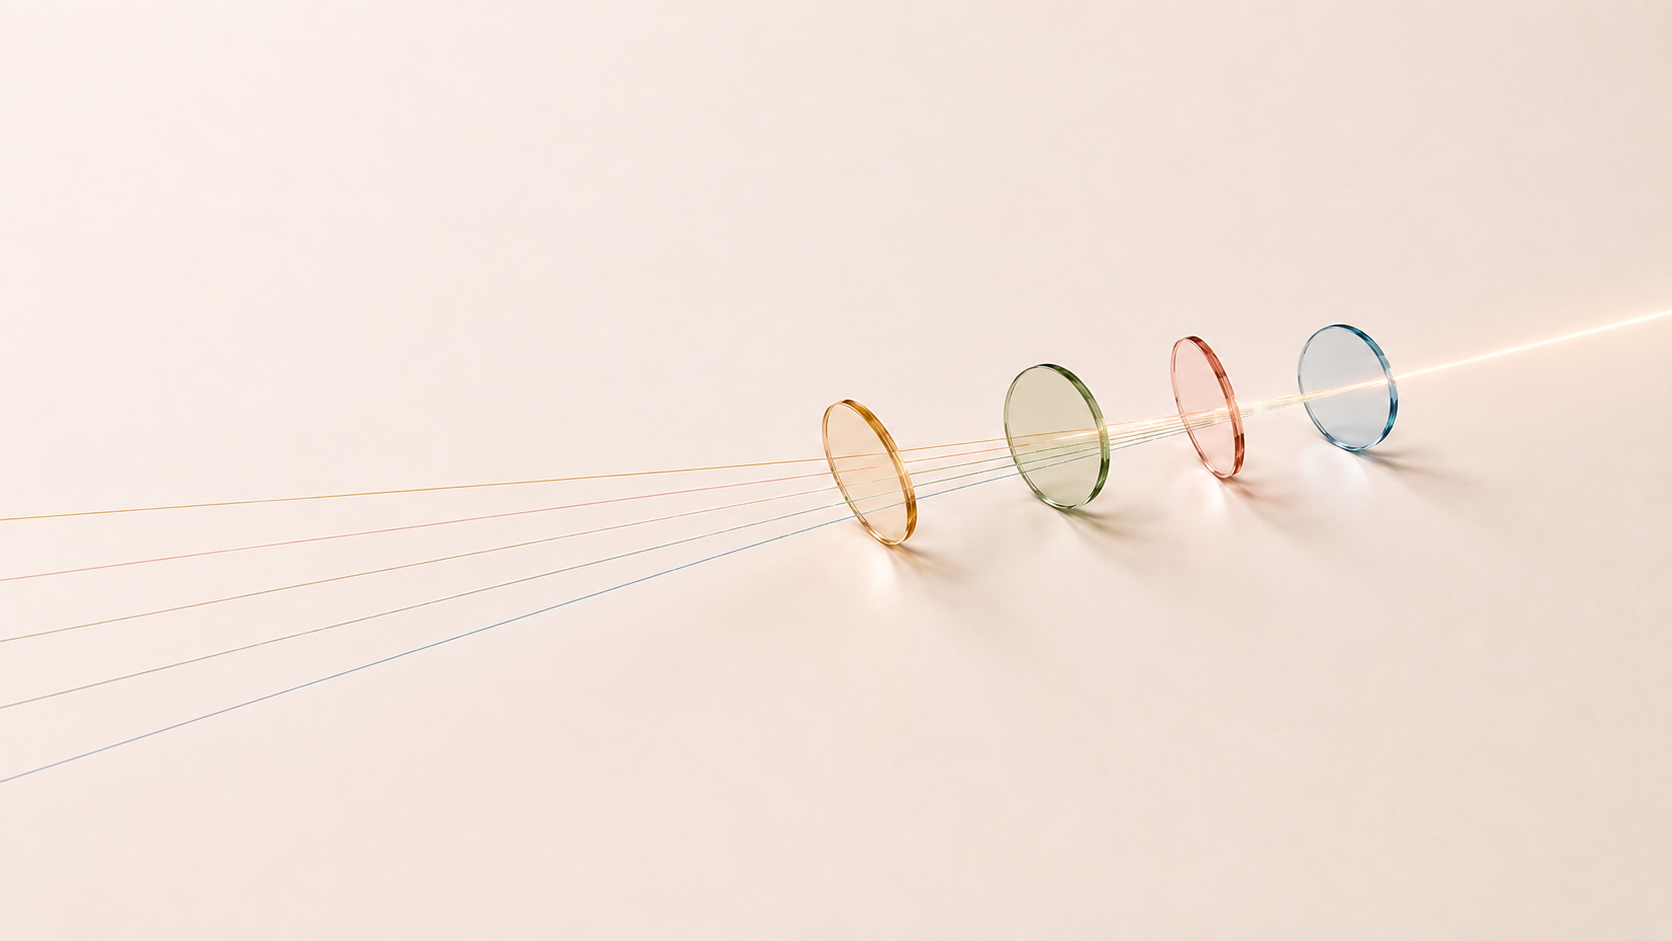
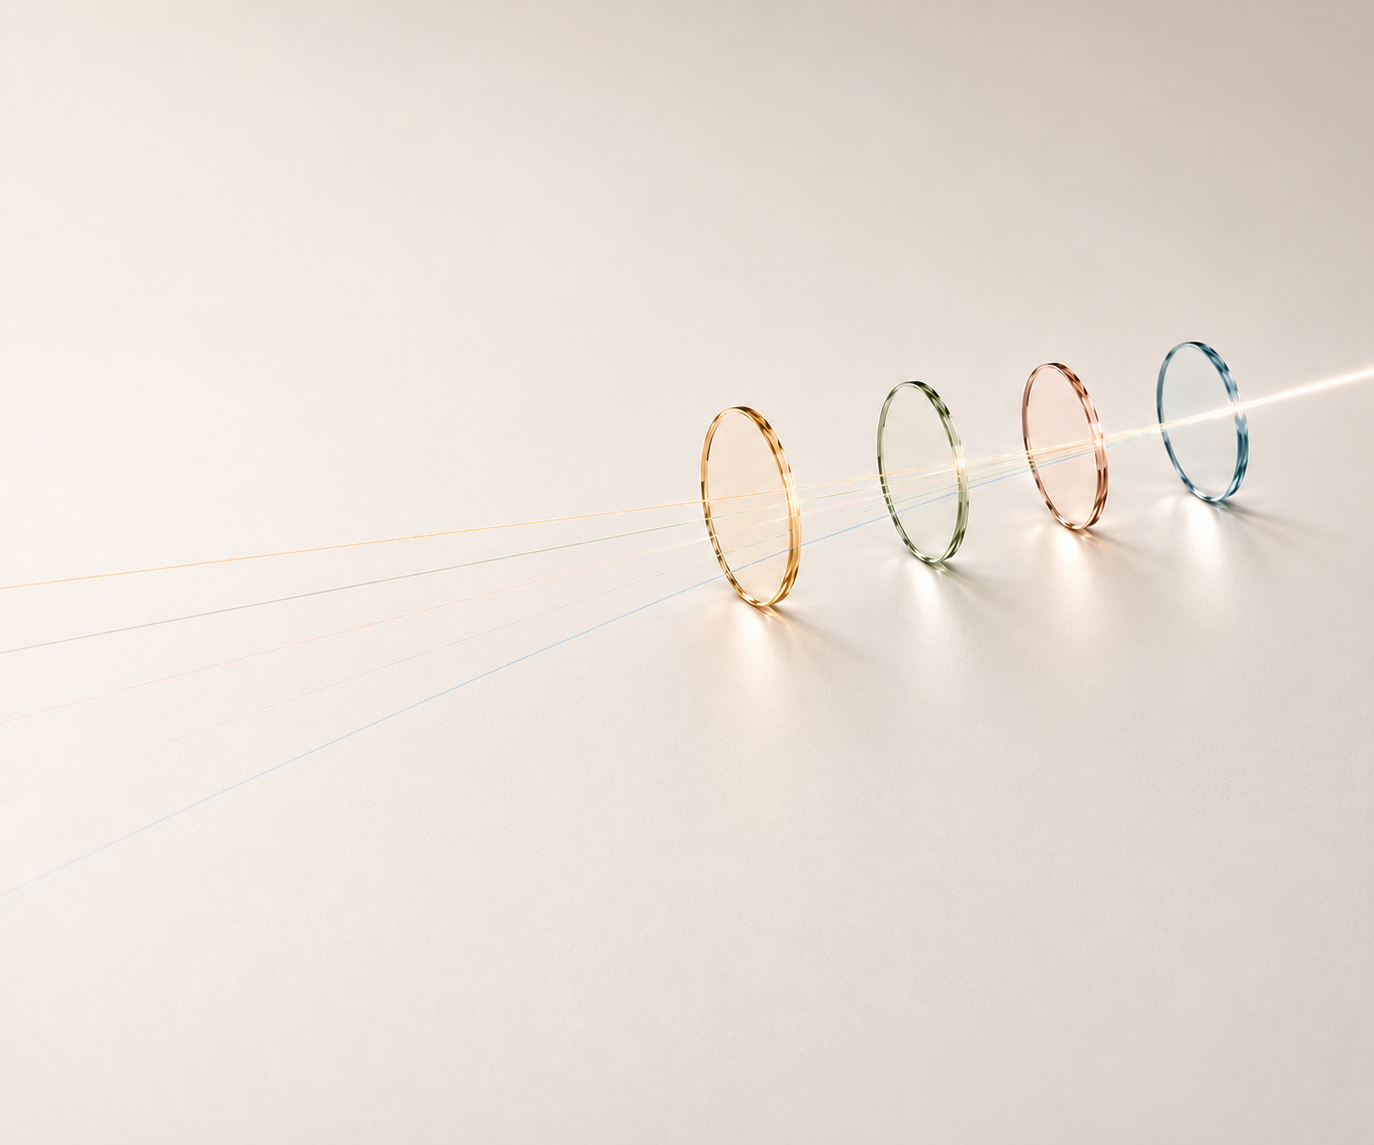
Remove Beliefs section, update hero photo and card colors from Figma
Removes the dark "Our beliefs" section entirely since it isn't part of
the current Figma frame. Swaps in the updated, cooler-toned hero photo
and fixes the service card background gradient to match the latest
design (was using stale opacity/color values from an earlier pull).
Also drops the now-unused belief-color variables and graphic asset.

diff --git a/styles.css b/styles.css
@@ -9,20 +9,15 @@
   --text-black: #141414;
   --accent-teal: #0c4459;
   --accent-teal-light: #0f485d;
-  --card-bg-start: rgba(252, 246, 243, 0.6);
-  --card-bg-end: rgba(235, 231, 231, 0.6);
+  --card-bg-start: rgba(255, 255, 255, 0.2);
+  --card-bg-end: rgba(235, 231, 231, 0.2);
   --card-border: #dbd6d6;
-  --dark-bg: #27313d;
-  --belief-passion: #fbb360;
-  --belief-mission: #99bd95;
-  --belief-vocation: #adc2df;
-  --belief-profession: #cbab83;
 
-  /* Shared with the belief colors, aliased for the service icons */
-  --icon-orange: var(--belief-passion);
-  --icon-green: var(--belief-mission);
-  --icon-blue: var(--belief-vocation);
-  --icon-tan: var(--belief-profession);
+  /* Shared brand accent palette, used across the service icons */
+  --icon-orange: #fbb360;
+  --icon-green: #99bd95;
+  --icon-blue: #adc2df;
+  --icon-tan: #cbab83;
   --icon-line: #55534e;
 
   --font-serif: 'Merriweather', Georgia, serif;
@@ -593,84 +588,6 @@ button {
 }
 
 /* =============================================
-   BELIEFS
-   ============================================= */
-.beliefs {
-  position: relative;
-  background: var(--dark-bg);
-  padding: 60px var(--side-padding);
-  overflow: hidden;
-}
-
-.beliefs__graphic {
-  position: absolute;
-  left: -40px;
-  bottom: -90px;
-  width: 480px;
-  max-width: 42vw;
-  transform: rotate(5.74deg);
-  opacity: 0.9;
-  pointer-events: none;
-}
-
-.beliefs__inner {
-  position: relative;
-  z-index: 1;
-  max-width: var(--container-max);
-  margin: 0 auto;
-  display: flex;
-  gap: 32px;
-  align-items: center;
-}
-
-.beliefs__heading {
-  flex: 1 0 0;
-  min-width: 280px;
-}
-
-.beliefs__heading h2 {
-  font-family: var(--font-serif);
-  font-weight: 400;
-  font-size: 36px;
-  line-height: 1.4;
-  color: #ffffff;
-}
-
-.beliefs__list {
-  flex: 1.4 0 0;
-  min-width: 320px;
-  display: flex;
-  flex-direction: column;
-}
-
-.beliefs__list li {
-  display: flex;
-  align-items: center;
-  gap: 48px;
-  padding: 16px 0;
-  border-bottom: 1px solid rgba(255, 255, 255, 0.15);
-}
-
-.beliefs__list li:last-child {
-  border-bottom: none;
-}
-
-.belief__num {
-  font-family: var(--font-serif);
-  font-size: 24px;
-  width: 165px;
-  flex-shrink: 0;
-}
-
-.belief__desc {
-  font-family: var(--font-sans);
-  font-weight: 300;
-  font-size: 20px;
-  color: #ffffff;
-  flex: 1;
-}
-
-/* =============================================
    SCROLL REVEAL
    ============================================= */
 .reveal-init {
@@ -706,16 +623,6 @@ button {
   .cards {
     grid-template-columns: repeat(2, 1fr);
     gap: 16px;
-  }
-
-  .beliefs__inner {
-    flex-direction: column;
-    align-items: flex-start;
-    gap: 40px;
-  }
-
-  .beliefs__graphic {
-    max-width: 55vw;
   }
 }
 
@@ -783,38 +690,6 @@ button {
 
   .cards {
     grid-template-columns: 1fr;
-  }
-
-  .beliefs {
-    padding-top: 48px;
-    padding-bottom: 260px;
-  }
-
-  .beliefs__heading h2 {
-    font-size: 28px;
-  }
-
-  .beliefs__list li {
-    flex-direction: column;
-    align-items: flex-start;
-    gap: 6px;
-    padding: 18px 0;
-  }
-
-  .belief__num {
-    width: auto;
-  }
-
-  .belief__desc {
-    font-size: 17px;
-  }
-
-  .beliefs__graphic {
-    left: 50%;
-    bottom: -70px;
-    transform: translateX(-50%) rotate(5.74deg);
-    max-width: 80vw;
-    width: 340px;
   }
 }
 

diff --git a/index.html b/index.html
@@ -35,7 +35,7 @@
 
           <nav class="nav-links" id="nav-links">
             <a href="#services">What we do</a>
-            <a href="#beliefs">About Us</a>
+            <a href="#top">About Us</a>
             <a href="mailto:hello@fourcircles.com" class="nav-links__cta">Let's Talk</a>
           </nav>
 
@@ -163,36 +163,6 @@
         </div>
       </section>
     </div>
-
-    <section class="beliefs" id="beliefs">
-      <img src="assets/circles-graphic.svg" alt="" class="beliefs__graphic">
-
-      <div class="beliefs__inner">
-        <div class="beliefs__heading reveal">
-          <span class="label label--light">Our beliefs</span>
-          <h2>Built on purpose.<br>Driven by creativity.</h2>
-        </div>
-
-        <ul class="beliefs__list reveal">
-          <li>
-            <span class="belief__num" style="color:#fbb360">01. Passion</span>
-            <span class="belief__desc">The intersection between joy and creativity</span>
-          </li>
-          <li>
-            <span class="belief__num" style="color:#99bd95">02. Mission</span>
-            <span class="belief__desc">The convergence purpose, contribution, and fulfilment</span>
-          </li>
-          <li>
-            <span class="belief__num" style="color:#adc2df">03. Vocation</span>
-            <span class="belief__desc">The overlap between what the world needs and our calling</span>
-          </li>
-          <li>
-            <span class="belief__num" style="color:#cbab83">04. Profession</span>
-            <span class="belief__desc">Where different ideas, people, and disciplines overlap</span>
-          </li>
-        </ul>
-      </div>
-    </section>
   </main>
 
   <script src="script.js"></script>
